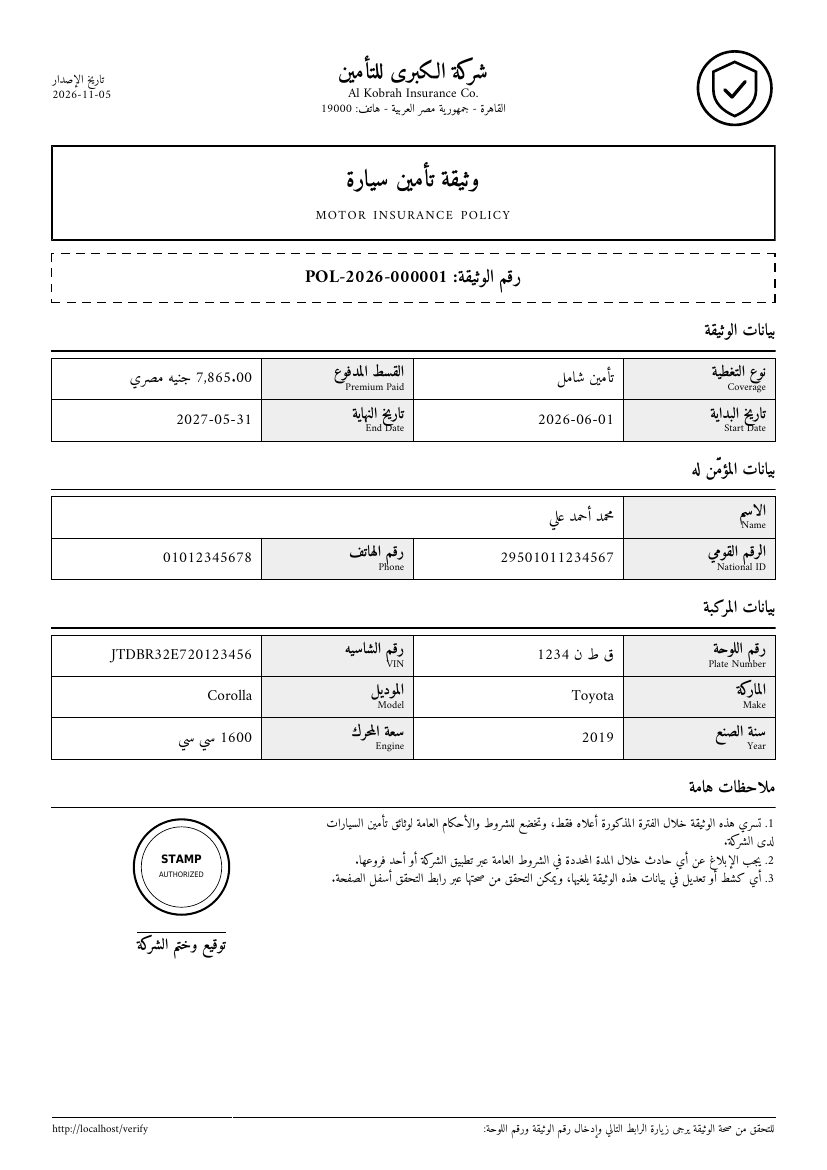
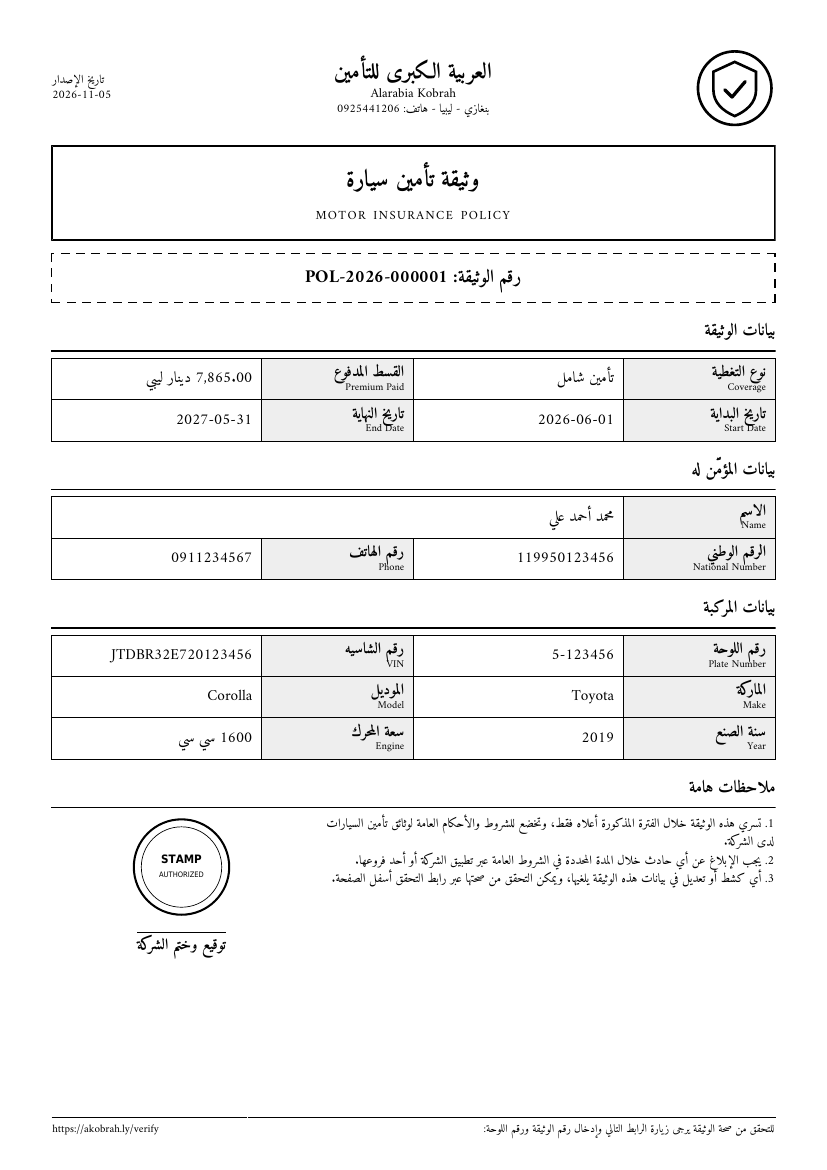
Localize for Libya and add company details
- Company: العربية الكبرى للتأمين / Alarabia Kobrah, Benghazi, 0925441206
- Currency LYD (دينار ليبي), timezone Africa/Tripoli
- Phone: Libyan mobile format 09[1-5]XXXXXXX; +218 / 00218 / spaces /
  Arabic digits are normalized to the local format before validation
- National number: 12 digits starting with 1 or 2 (الرقم الوطني)
- Plates: Libyan "region-number" format (5-123456), dash/space-insensitive
- KYC label: identity document (ID card or passport)
- Demo users, workshops and factories use Libyan data
- PDF: national number label, verification URL akobrah.ly/verify,
  regenerated sample; tests updated (76 passing)

Claude-Session: https://claude.ai/code/session_01Fs3WVkKsUwwagLPPGRT9us

diff --git a/backend/tests/Feature/Auth/OtpAuthenticationTest.php b/backend/tests/Feature/Auth/OtpAuthenticationTest.php
@@ -14,7 +14,7 @@ class OtpAuthenticationTest extends TestCase
 {
     use RefreshDatabase;
 
-    private const PHONE = '01012345678';
+    private const PHONE = '0911234567';
 
     public function test_it_sends_an_otp_and_stores_only_a_hash(): void
     {
@@ -36,7 +36,7 @@ class OtpAuthenticationTest extends TestCase
             ->assertUnprocessable()
             ->assertJsonPath('success', false)
             ->assertJsonPath('message', 'البيانات المدخلة غير صحيحة.')
-            ->assertJsonPath('errors.phone.0', 'رقم الهاتف غير صحيح، يجب أن يكون رقم موبايل مصري مكوّن من 11 رقماً (مثال: 01012345678).');
+            ->assertJsonPath('errors.phone.0', 'رقم الهاتف غير صحيح، يجب أن يكون رقم هاتف محمول ليبي مكوّن من 10 أرقام (مثال: 0911234567).');
     }
 
     public function test_english_messages_are_returned_when_requested(): void
@@ -49,9 +49,34 @@ class OtpAuthenticationTest extends TestCase
 
     public function test_arabic_indic_digits_are_accepted(): void
     {
-        $this->postJson('/api/v1/auth/otp/send', ['phone' => '٠١٠١٢٣٤٥٦٧٨'])->assertOk();
+        $this->postJson('/api/v1/auth/otp/send', ['phone' => '٠٩١١٢٣٤٥٦٧'])->assertOk();
 
         $this->assertNotNull($this->sms->lastCodeFor(self::PHONE));
+    }
+
+    public function test_international_format_is_converted_to_local(): void
+    {
+        $this->postJson('/api/v1/auth/otp/send', ['phone' => '+218 91-123 4567'])->assertOk();
+        $this->assertNotNull($this->sms->lastCodeFor(self::PHONE));
+
+        // Same number, other notations → same OTP row / account.
+        $this->travel(2)->minutes();
+        $this->postJson('/api/v1/auth/otp/send', ['phone' => '00218911234567'])->assertOk();
+        $this->assertSame(2, count(array_filter($this->sms->sent, fn ($sms) => $sms['phone'] === self::PHONE)));
+    }
+
+    public function test_national_number_must_be_libyan_format(): void
+    {
+        $registrationToken = $this->verifyNewPhone();
+
+        $this->postJson('/api/v1/auth/register', [
+            'registration_token' => $registrationToken,
+            'name' => 'محمد أحمد',
+            'national_id' => '29501011234567', // 14 digits (not Libyan)
+            'device_name' => 'pixel-8',
+        ])
+            ->assertUnprocessable()
+            ->assertJsonPath('errors.national_id.0', 'الرقم الوطني غير صحيح، يجب أن يتكون من 12 رقماً ويبدأ بـ 1 أو 2.');
     }
 
     public function test_resending_within_a_minute_is_rate_limited(): void
@@ -70,7 +95,7 @@ class OtpAuthenticationTest extends TestCase
         $response = $this->postJson('/api/v1/auth/register', [
             'registration_token' => $registrationToken,
             'name' => 'محمد أحمد',
-            'national_id' => '29501011234567',
+            'national_id' => '119950123456',
             'device_name' => 'pixel-8',
         ]);
 
@@ -86,7 +111,7 @@ class OtpAuthenticationTest extends TestCase
         $this->withToken($response->json('data.token'))
             ->getJson('/api/v1/auth/me')
             ->assertOk()
-            ->assertJsonPath('data.national_id', '29501011234567');
+            ->assertJsonPath('data.national_id', '119950123456');
     }
 
     public function test_registration_token_is_single_use(): void
@@ -95,13 +120,13 @@ class OtpAuthenticationTest extends TestCase
         $payload = [
             'registration_token' => $registrationToken,
             'name' => 'محمد أحمد',
-            'national_id' => '29501011234567',
+            'national_id' => '119950123456',
             'device_name' => 'pixel-8',
         ];
 
         $this->postJson('/api/v1/auth/register', $payload)->assertCreated();
 
-        $this->postJson('/api/v1/auth/register', [...$payload, 'national_id' => '29501011234568'])
+        $this->postJson('/api/v1/auth/register', [...$payload, 'national_id' => '119950123457'])
             ->assertUnprocessable()
             ->assertJsonValidationErrors('registration_token');
     }
@@ -114,7 +139,7 @@ class OtpAuthenticationTest extends TestCase
         $response = $this->post('/api/v1/auth/register', [
             'registration_token' => $registrationToken,
             'name' => 'محمد أحمد',
-            'national_id' => '29501011234567',
+            'national_id' => '119950123456',
             'device_name' => 'pixel-8',
             'id_image' => UploadedFile::fake()->image('id.jpg', 800, 500),
             'license_image' => UploadedFile::fake()->image('license.png', 800, 500),

diff --git a/backend/tests/Feature/PolicyVerificationTest.php b/backend/tests/Feature/PolicyVerificationTest.php
@@ -20,7 +20,7 @@ class PolicyVerificationTest extends TestCase
         parent::setUp();
 
         $this->travelTo(CarbonImmutable::parse('2026-06-01 10:00:00'));
-        $this->vehicle = Vehicle::factory()->create(['plate_no' => 'ق ط ن 1234']);
+        $this->vehicle = Vehicle::factory()->create(['plate_no' => '5-123456']);
     }
 
     private function verify(string $policyNo, string $plateNo): TestResponse
@@ -35,7 +35,7 @@ class PolicyVerificationTest extends TestCase
     {
         $policy = Policy::factory()->active()->for($this->vehicle)->create(['policy_no' => 'POL-2026-000123']);
 
-        $this->verify('pol-2026-000123', 'قطن ١٢٣٤') // case, spacing and Arabic digits are normalized
+        $this->verify('pol-2026-000123', '٥ ١٢٣٤٥٦') // case, dash/spacing and Arabic digits are normalized
             ->assertOk()
             ->assertJsonPath('data.result.value', 'VALID')
             ->assertJsonPath('message', 'الوثيقة سارية')
@@ -56,8 +56,8 @@ class PolicyVerificationTest extends TestCase
             'end_date' => '2026-04-30',
         ]);
 
-        $this->verify('POL-2025-000001', 'ق ط ن 1234')->assertJsonPath('data.result.value', 'EXPIRED');
-        $this->verify('POL-2025-000002', 'ق ط ن 1234')->assertJsonPath('data.result.value', 'EXPIRED');
+        $this->verify('POL-2025-000001', '5-123456')->assertJsonPath('data.result.value', 'EXPIRED');
+        $this->verify('POL-2025-000002', '5-123456')->assertJsonPath('data.result.value', 'EXPIRED');
     }
 
     public function test_wrong_plate_unknown_number_or_unpaid_policy_is_not_found(): void
@@ -66,9 +66,9 @@ class PolicyVerificationTest extends TestCase
         Policy::factory()->for($this->vehicle)->create(['policy_no' => 'POL-2026-000002']); // pending payment
 
         foreach ([
-            ['POL-2026-000001', 'ق ط ن 9999'],
-            ['POL-2026-999999', 'ق ط ن 1234'],
-            ['POL-2026-000002', 'ق ط ن 1234'],
+            ['POL-2026-000001', '5-999999'],
+            ['POL-2026-999999', '5-123456'],
+            ['POL-2026-000002', '5-123456'],
         ] as [$policyNo, $plateNo]) {
             $this->verify($policyNo, $plateNo)
                 ->assertOk()

diff --git a/backend/config/insurance.php b/backend/config/insurance.php
@@ -11,14 +11,14 @@
 
 return [
 
-    'currency' => env('INSURANCE_CURRENCY', 'EGP'),
-    'currency_label' => env('INSURANCE_CURRENCY_LABEL', 'جنيه مصري'),
+    'currency' => env('INSURANCE_CURRENCY', 'LYD'),
+    'currency_label' => env('INSURANCE_CURRENCY_LABEL', 'دينار ليبي'),
 
     'company' => [
-        'name_ar' => env('COMPANY_NAME_AR', 'شركة الكبرى للتأمين'),
-        'name_en' => env('COMPANY_NAME_EN', 'Al Kobrah Insurance Co.'),
-        'address' => env('COMPANY_ADDRESS', 'القاهرة - جمهورية مصر العربية'),
-        'phone' => env('COMPANY_PHONE', '19000'),
+        'name_ar' => env('COMPANY_NAME_AR', 'العربية الكبرى للتأمين'),
+        'name_en' => env('COMPANY_NAME_EN', 'Alarabia Kobrah'),
+        'address' => env('COMPANY_ADDRESS', 'بنغازي - ليبيا'),
+        'phone' => env('COMPANY_PHONE', '0925441206'),
         // Absolute paths (PNG/JPG/SVG). Replace the placeholders with the real assets.
         'logo_path' => env('COMPANY_LOGO_PATH', resource_path('pdf/logo.svg')),
         'stamp_path' => env('COMPANY_STAMP_PATH', resource_path('pdf/stamp.svg')),
@@ -60,10 +60,12 @@ return [
     ],
 
     'validation' => [
-        // Egyptian mobile numbers: 010 / 011 / 012 / 015 + 8 digits.
-        'phone_regex' => env('PHONE_REGEX', '/^01[0125][0-9]{8}$/'),
-        // Egyptian national ID: 14 digits, century digit 2 or 3.
-        'national_id_regex' => env('NATIONAL_ID_REGEX', '/^[23][0-9]{13}$/'),
+        // Libyan mobile numbers, local format: 091 / 092 / 093 / 094 / 095 + 7 digits.
+        // +218 / 00218 prefixes are converted to the local format before validation.
+        'phone_country_code' => env('PHONE_COUNTRY_CODE', '218'),
+        'phone_regex' => env('PHONE_REGEX', '/^09[1-5][0-9]{7}$/'),
+        // Libyan national number: 12 digits, first digit 1 (male) or 2 (female).
+        'national_id_regex' => env('NATIONAL_ID_REGEX', '/^[12][0-9]{11}$/'),
         // ISO 3779 VIN: 17 chars, excludes I, O, Q.
         'vin_regex' => '/^[A-HJ-NPR-Z0-9]{17}$/',
         'policy_no_regex' => '/^POL-[0-9]{4}-[0-9]{6}$/',

diff --git a/backend/lang/ar/validation.php b/backend/lang/ar/validation.php
@@ -170,11 +170,11 @@ return [
 
     'custom' => [
         'phone' => [
-            'regex' => 'رقم الهاتف غير صحيح، يجب أن يكون رقم موبايل مصري مكوّن من 11 رقماً (مثال: 01012345678).',
+            'regex' => 'رقم الهاتف غير صحيح، يجب أن يكون رقم هاتف محمول ليبي مكوّن من 10 أرقام (مثال: 0911234567).',
         ],
         'national_id' => [
-            'regex' => 'الرقم القومي غير صحيح، يجب أن يتكون من 14 رقماً.',
-            'unique' => 'الرقم القومي مسجل بحساب آخر.',
+            'regex' => 'الرقم الوطني غير صحيح، يجب أن يتكون من 12 رقماً ويبدأ بـ 1 أو 2.',
+            'unique' => 'الرقم الوطني مسجل بحساب آخر.',
         ],
         'vin' => [
             'regex' => 'رقم الشاسيه (VIN) يجب أن يتكون من 17 حرفاً ورقماً إنجليزياً (بدون I و O و Q).',
@@ -203,12 +203,12 @@ return [
     'attributes' => [
         'name' => 'الاسم',
         'phone' => 'رقم الهاتف',
-        'national_id' => 'الرقم القومي',
+        'national_id' => 'الرقم الوطني',
         'password' => 'كلمة المرور',
         'code' => 'رمز التحقق',
         'device_name' => 'اسم الجهاز',
         'registration_token' => 'رمز التسجيل',
-        'id_image' => 'صورة بطاقة الرقم القومي',
+        'id_image' => 'صورة إثبات الهوية',
         'license_image' => 'صورة رخصة القيادة',
         'plate_no' => 'رقم اللوحة',
         'vin' => 'رقم الشاسيه',

diff --git a/backend/database/seeders/DemoUserSeeder.php b/backend/database/seeders/DemoUserSeeder.php
@@ -15,10 +15,10 @@ class DemoUserSeeder extends Seeder
     public function run(): void
     {
         $accounts = [
-            ['role' => UserRole::Admin, 'name' => 'مدير النظام', 'phone' => '01000000001', 'national_id' => '29001010100011'],
-            ['role' => UserRole::Surveyor, 'name' => 'أحمد المعاين', 'phone' => '01000000002', 'national_id' => '28805050100022'],
-            ['role' => UserRole::Customer, 'name' => 'محمد العميل', 'phone' => '01000000003', 'national_id' => '29503030100033'],
-            ['role' => UserRole::Workshop, 'name' => 'ورشة النور', 'phone' => '01000000004', 'national_id' => null],
+            ['role' => UserRole::Admin, 'name' => 'مدير النظام', 'phone' => '0910000001', 'national_id' => '119900000011'],
+            ['role' => UserRole::Surveyor, 'name' => 'أحمد المعاين', 'phone' => '0910000002', 'national_id' => '119880000022'],
+            ['role' => UserRole::Customer, 'name' => 'محمد العميل', 'phone' => '0910000003', 'national_id' => '119950000033'],
+            ['role' => UserRole::Workshop, 'name' => 'ورشة النور', 'phone' => '0910000004', 'national_id' => null],
         ];
 
         foreach ($accounts as $account) {
@@ -34,7 +34,7 @@ class DemoUserSeeder extends Seeder
 
             if ($account['role'] === UserRole::Customer) {
                 $user->vehicles()->updateOrCreate(['vin' => 'JTDBR32E720123456'], [
-                    'plate_no' => 'ق ط ن 1234',
+                    'plate_no' => '5-123456',
                     'make' => 'Toyota',
                     'model' => 'Corolla',
                     'year' => 2019,

diff --git a/backend/tests/Unit/PlateNumberTest.php b/backend/tests/Unit/PlateNumberTest.php
@@ -3,11 +3,20 @@
 namespace Tests\Unit;
 
 use App\Support\Digits;
+use App\Support\PhoneNumber;
 use App\Support\PlateNumber;
 use PHPUnit\Framework\TestCase;
 
 class PlateNumberTest extends TestCase
 {
+    public function test_libyan_plates_are_normalized(): void
+    {
+        $this->assertSame('5-123456', PlateNumber::format(' ٥ - ١٢٣٤٥٦ '));
+        $this->assertTrue(PlateNumber::equals('5-123456', '٥ ١٢٣٤٥٦'));
+        $this->assertTrue(PlateNumber::equals('5-123456', '5123456'));
+        $this->assertFalse(PlateNumber::equals('5-123456', '6-123456'));
+    }
+
     public function test_format_collapses_spaces_and_converts_digits(): void
     {
         $this->assertSame('ق ط ن 1234', PlateNumber::format('  ق   ط ن  ١٢٣٤ '));
@@ -19,6 +28,15 @@ class PlateNumberTest extends TestCase
         $this->assertTrue(PlateNumber::equals('ق ط ن 1234', 'قطن١٢٣٤'));
         $this->assertTrue(PlateNumber::equals('ق-ط-ن-1234', 'ق ط ن 1234'));
         $this->assertFalse(PlateNumber::equals('ق ط ن 1234', 'ق ط ن 1235'));
+    }
+
+    public function test_libyan_phone_numbers_are_converted_to_local_format(): void
+    {
+        foreach (['+218911234567', '00218911234567', '218911234567', '+218 91-123 4567', '٠٩١١٢٣٤٥٦٧', '091 123 4567'] as $input) {
+            $this->assertSame('0911234567', PhoneNumber::normalize($input, '218'), $input);
+        }
+
+        $this->assertSame('0925441206', PhoneNumber::normalize('0925441206', '218'));
     }
 
     public function test_digits_are_normalized_from_arabic_and_persian(): void

diff --git a/backend/database/seeders/WorkshopSeeder.php b/backend/database/seeders/WorkshopSeeder.php
@@ -10,9 +10,9 @@ class WorkshopSeeder extends Seeder
     public function run(): void
     {
         $workshops = [
-            ['name' => 'مركز النور لصيانة السيارات', 'phone' => '0223456789', 'lat' => 30.0444196, 'lng' => 31.2357116, 'is_approved' => true],
-            ['name' => 'ورشة الأمل - مدينة نصر', 'phone' => '0222876543', 'lat' => 30.0561000, 'lng' => 31.3301000, 'is_approved' => true],
-            ['name' => 'ورشة الإسكندرية الحديثة', 'phone' => '034567890', 'lat' => 31.2000924, 'lng' => 29.9187387, 'is_approved' => false],
+            ['name' => 'مركز النور لصيانة السيارات - بنغازي', 'phone' => '0911111111', 'lat' => 32.1166700, 'lng' => 20.0666700, 'is_approved' => true],
+            ['name' => 'ورشة الأمل - طرابلس', 'phone' => '0922222222', 'lat' => 32.8872000, 'lng' => 13.1913000, 'is_approved' => true],
+            ['name' => 'ورشة مصراتة الحديثة', 'phone' => '0943333333', 'lat' => 32.3754000, 'lng' => 15.0925000, 'is_approved' => false],
         ];
 
         foreach ($workshops as $workshop) {

diff --git a/backend/app/Support/PhoneNumber.php b/backend/app/Support/PhoneNumber.php
@@ -1,0 +1,33 @@
+<?php
+
+namespace App\Support;
+
+/**
+ * Normalizes phone input to the local format used for storage and login:
+ * "+218 91-123 4567", "00218911234567", "218911234567", "٠٩١١٢٣٤٥٦٧" → "0911234567".
+ */
+final class PhoneNumber
+{
+    public static function normalize(mixed $value, ?string $countryCode = null): mixed
+    {
+        if (! is_string($value)) {
+            return $value;
+        }
+
+        $countryCode ??= (string) config('insurance.validation.phone_country_code');
+        $phone = preg_replace('/[\s\-().]+/u', '', (string) Digits::toWestern($value)) ?? '';
+
+        foreach (['+'.$countryCode, '00'.$countryCode] as $prefix) {
+            if (str_starts_with($phone, $prefix)) {
+                return '0'.substr($phone, strlen($prefix));
+            }
+        }
+
+        // Country code without "+" (e.g. 218911234567): local number is 9 digits after it.
+        if (str_starts_with($phone, $countryCode) && strlen($phone) === strlen($countryCode) + 9) {
+            return '0'.substr($phone, strlen($countryCode));
+        }
+
+        return $phone;
+    }
+}

diff --git a/backend/tests/Feature/VehicleManagementTest.php b/backend/tests/Feature/VehicleManagementTest.php
@@ -16,7 +16,7 @@ class VehicleManagementTest extends TestCase
     private function payload(array $overrides = []): array
     {
         return [
-            'plate_no' => 'ق  ط ن ١٢٣٤',
+            'plate_no' => ' ٥ - ١٢٣٤٥٦ ',
             'vin' => 'jtdbr32e720123456',
             'make' => 'Toyota',
             'model' => 'Corolla',
@@ -33,7 +33,7 @@ class VehicleManagementTest extends TestCase
         $this->actingAsUser($user)
             ->postJson('/api/v1/vehicles', $this->payload())
             ->assertCreated()
-            ->assertJsonPath('data.plate_no', 'ق ط ن 1234')
+            ->assertJsonPath('data.plate_no', '5-123456')
             ->assertJsonPath('data.vin', 'JTDBR32E720123456')
             ->assertJsonPath('message', 'تمت إضافة المركبة بنجاح.');
 

diff --git a/backend/lang/ar/messages.php b/backend/lang/ar/messages.php
@@ -55,7 +55,7 @@ return [
         'not_owner' => 'هذه الوثيقة غير مسجلة باسمك.',
         'not_active' => 'لا يمكن تحميل الوثيقة إلا بعد تفعيلها.',
         'not_pending' => 'هذه الوثيقة ليست بانتظار الدفع.',
-        'kyc_required' => 'يرجى رفع صورة بطاقة الرقم القومي ورخصة القيادة قبل إصدار الوثيقة.',
+        'kyc_required' => 'يرجى رفع صورة إثبات الهوية ورخصة القيادة قبل إصدار الوثيقة.',
         'overlap' => 'توجد وثيقة سارية أو بانتظار الدفع لهذه المركبة في نفس الفترة.',
     ],
 

diff --git a/backend/app/Support/PlateNumber.php b/backend/app/Support/PlateNumber.php
@@ -3,8 +3,8 @@
 namespace App\Support;
 
 /**
- * Egyptian plates mix Arabic letters and digits ("ق ط ن 1234"), and users type them
- * inconsistently (with/without spaces, Arabic/Western digits).
+ * Libyan plates are "region-number" ("5-123456"); users type them inconsistently
+ * (spaces around the dash, no dash, Arabic/Western digits). Plates with Arabic letters are also supported.
  */
 final class PlateNumber
 {
@@ -13,6 +13,7 @@ final class PlateNumber
     {
         $plate = (string) Digits::toWestern($plate);
         $plate = preg_replace('/\s+/u', ' ', $plate) ?? $plate;
+        $plate = preg_replace('/\s*-\s*/u', '-', $plate) ?? $plate;
 
         return mb_strtoupper(trim($plate));
     }

diff --git a/backend/app/Http/Requests/ApiRequest.php b/backend/app/Http/Requests/ApiRequest.php
@@ -3,6 +3,7 @@
 namespace App\Http\Requests;
 
 use App\Support\Digits;
+use App\Support\PhoneNumber;
 use Illuminate\Foundation\Http\FormRequest;
 
 abstract class ApiRequest extends FormRequest
@@ -25,6 +26,11 @@ abstract class ApiRequest extends FormRequest
             if ($this->has($field)) {
                 $normalized[$field] = Digits::toWestern($this->input($field));
             }
+        }
+
+        // +218 / 00218 / spaces / Arabic digits → local format (09XXXXXXXX).
+        if ($this->has('phone')) {
+            $normalized['phone'] = PhoneNumber::normalize($this->input('phone'));
         }
 
         if ($normalized !== []) {
